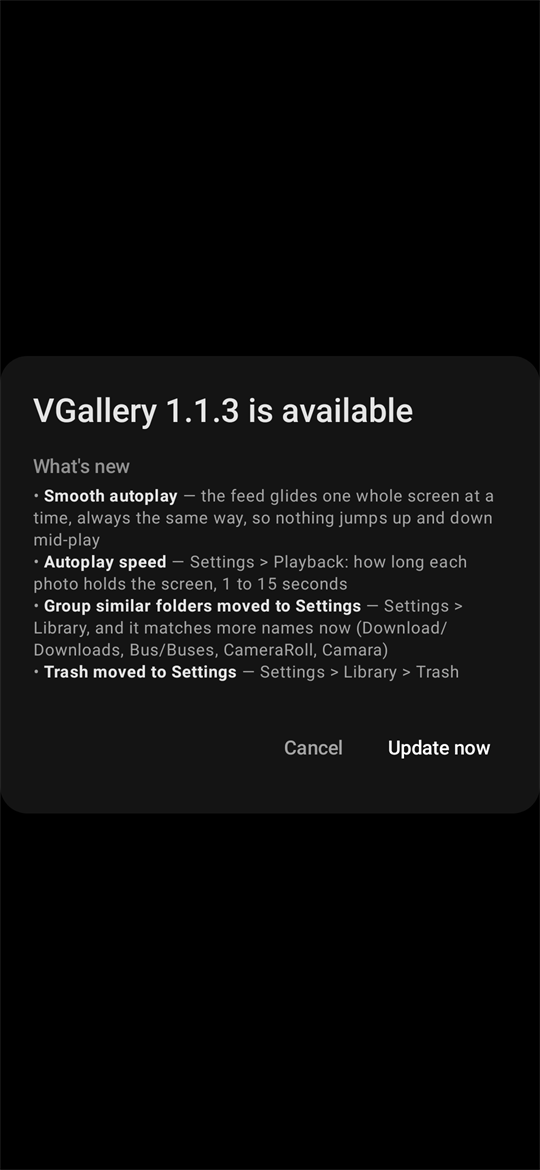
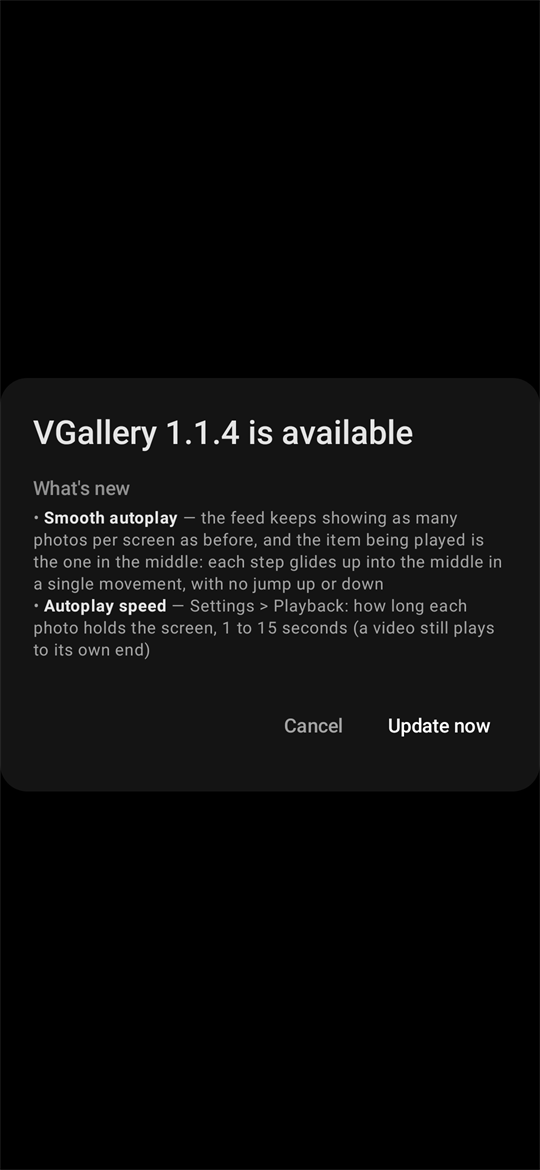
fix: keep autoplay in the feed's own layout, gliding one item to the middle at a time
1.1.3 drew every item as one full screen while autoplay ran, which threw away the
feed's own shape and made a run feel like a slideshow. The feed goes back to
showing as many photos per screen as fit, and the centring it needs is done
properly this time, in a single movement.

- DeviceGalleryScreen.kt: the page-mode drawing is gone (BoxWithConstraints,
  full-screen items, ContentScale.Fit). What travels is the middle: the item
  being played is brought there, and every step after that glides from one
  middle to the next. Where the arriving item is already laid out, its own
  distance from the middle is the exact answer; otherwise the step is half of
  each item plus the gap between them, corrected by however far the last one was
  left — so a finger that scrolled mid-run still lands the next item squarely.
- The old centre-the-playing-item helper had its scroll direction inverted, so
  its correction pushed the item the wrong way: that was the up-and-down the
  feed used to do. glideToCentre now uses the right sign, and only ever runs at
  the start of a run, to settle what a shape could not know.
- AutoplayPacing.kt: the glide is stretched a little for a long step, so a tall
  photo getting out of the way glides rather than flicks (250-1000 ms), and unit
  tested for it.
- Settings' About bullet and the README describe the feed as it is again.
- Version 1.1.4 (code 19).

Changed region(s): [[0.0593, 0.3385, 0.9185, 0.5846], [0.7111, 0.6154, 0.9185, 0.6462], [0.5037, 0.6154, 0.6519, 0.6462]]

diff --git a/app/src/main/java/com/vgallery/app/ui/gallery/DeviceGalleryScreen.kt b/app/src/main/java/com/vgallery/app/ui/gallery/DeviceGalleryScreen.kt
@@ -34,7 +34,6 @@ import androidx.compose.foundation.gestures.animateScrollBy
 import androidx.compose.foundation.gestures.detectTapGestures
 import androidx.compose.foundation.layout.Arrangement
 import androidx.compose.foundation.layout.Box
-import androidx.compose.foundation.layout.BoxWithConstraints
 import androidx.compose.foundation.layout.Column
 import androidx.compose.foundation.layout.PaddingValues
 import androidx.compose.foundation.layout.Row
@@ -132,7 +131,6 @@ import androidx.core.view.WindowInsetsCompat
 import androidx.core.view.WindowInsetsControllerCompat
 import androidx.compose.ui.text.font.FontWeight
 import androidx.compose.ui.text.style.TextOverflow
-import androidx.compose.ui.unit.Dp
 import androidx.compose.ui.unit.dp
 import androidx.compose.ui.unit.sp
 import androidx.hilt.navigation.compose.hiltViewModel
@@ -147,6 +145,7 @@ import androidx.media3.ui.AspectRatioFrameLayout
 import androidx.media3.ui.PlayerView
 import coil3.decode.BitmapFactoryDecoder
 import kotlin.math.abs
+import kotlin.math.roundToInt
 import coil3.request.ImageRequest
 import coil3.request.crossfade
 import coil3.size.Dimension
@@ -1192,6 +1191,25 @@ private fun knownAspectRatio(width: Int, height: Int): Float? {
 }
 
 /**
+ * How tall one feed item is on screen before the feed has measured it: the full width over the
+ * item's own aspect ratio, which is how every item in the feed is laid out. Zero when nothing is
+ * known about the shape — the measurement then has the last word.
+ */
+private fun feedItemHeightPx(
+    photo: DevicePhotoRow,
+    videoAspects: Map<Long, Float>,
+    widthPx: Int
+): Int {
+    val aspect = if (photo.isVideo) {
+        videoAspects[photo.id] ?: knownAspectRatio(photo.width, photo.height) ?: (16f / 9f)
+    } else {
+        knownAspectRatio(photo.width, photo.height)
+    }
+    if (aspect == null || aspect <= 0f || widthPx <= 0) return 0
+    return (widthPx / aspect).roundToInt()
+}
+
+/**
  * Global feed gesture, Google Drive PDF-viewer style.
  *
  * Runs on the Initial pass so it decides before the item's tap/play detector and before the
@@ -1229,9 +1247,6 @@ private fun Modifier.feedZoomGesture(state: FeedZoomState): Modifier = pointerIn
  * One video inside the continuous feed: full-width like every photo, as many
  * per screen as fit. A poster frame shows until the item is tapped; tapping binds
  * the shared player and plays, everything else stays paused.
- *
- * [pageHeight] is set while autoplay runs: the video then owns one whole screen too, and its
- * frames are fitted inside it rather than cropped to the item's shape.
  */
 @Composable
 private fun FeedVideoItem(
@@ -1240,7 +1255,6 @@ private fun FeedVideoItem(
     uiVisible: Boolean,
     exoPlayer: ExoPlayer,
     videoAspects: MutableMap<Long, Float>,
-    pageHeight: Dp?,
     onTogglePlay: () -> Unit,
     onDoubleTapChrome: () -> Unit
 ) {
@@ -1252,13 +1266,7 @@ private fun FeedVideoItem(
     Box(
         modifier = Modifier
             .fillMaxWidth()
-            .then(
-                if (pageHeight != null) {
-                    Modifier.height(pageHeight)
-                } else {
-                    Modifier.aspectRatio(aspect)
-                }
-            )
+            .aspectRatio(aspect)
             .background(Color.Black)
             .clipToBounds()
     ) {
@@ -1268,7 +1276,7 @@ private fun FeedVideoItem(
             uri = photo.uri,
             isVideo = true,
             contentDescription = photo.name,
-            contentScale = if (pageHeight != null) ContentScale.Fit else ContentScale.Crop,
+            contentScale = ContentScale.Crop,
             modifier = Modifier.fillMaxSize()
         )
         if (!isPlaying) {
@@ -1425,8 +1433,8 @@ private fun DevicePhotoViewer(
     val targetWidthPx = remember(configuration, density) {
         with(density) { (configuration.screenWidthDp.dp * 2).roundToPx() }.coerceAtLeast(1)
     }
-    // The sliver between feed items, shared by the list and by autoplay's step so a page and the
-    // distance it travels are the same measurement.
+    // The sliver between feed items, shared by the list and by autoplay's step, so the distance an
+    // item has to travel and the gap it travels over are the same measurement.
     val feedGap = 2.dp
     val feedGapPx = remember(density) { with(density) { feedGap.roundToPx() } }
     // Double-tap toggles all chrome (top bar + bottom title) for pure-image viewing.
@@ -1444,10 +1452,10 @@ private fun DevicePhotoViewer(
         mutableIntStateOf(startIndex.coerceIn(0, (photos.size - 1).coerceAtLeast(0)))
     }
     // Autoplay: plays the feed one item after another — videos to their end, stills and
-    // animations for as long as the user chose — walking the whole feed a screen at a time.
+    // animations for as long as the user chose — each item coming to the middle as it plays.
     var autoPlay by remember { mutableStateOf(false) }
-    // The page autoplay last settled on: a step from the item just before it is a glide, anything
-    // else is the start of a run and the page is taken without animating.
+    // The item autoplay last settled on: a step arriving from the item just before it glides over,
+    // anything else is the start of a run (or a tap) and the place is taken without animating.
     var autoplayAnchor by remember { mutableIntStateOf(-1) }
     // Delete / info UI state.
     var pendingDelete by remember { mutableStateOf<DevicePhotoRow?>(null) }
@@ -1469,7 +1477,7 @@ private fun DevicePhotoViewer(
         pendingDelete = photo
     }
 
-    /** Autoplay step: hand playback to the next item (the feed then glides its page in). */
+    /** Autoplay step: hand playback to the next item (the feed then brings it to the middle). */
     fun advanceAutoPlay() {
         if (!autoPlay) return
         val next = playingIndex + 1
@@ -1554,9 +1562,41 @@ private fun DevicePhotoViewer(
         // Still on the same item after the wait: nothing ended on its own, so move on.
         if (playingIndex == startedAt) advanceAutoPlay()
     }
-    // Autoplay's own movement. While a run lasts every item is drawn as one full screen, so the feed
-    // travels exactly one screen per step — and always the same way, down. A run that starts here
-    // takes its page without animating; every step after that glides, so nothing jumps back up.
+    /** How far one item has to move to own the middle of the screen, or 0 when it is already there. */
+    fun offCentrePx(index: Int): Int {
+        val info = listState.layoutInfo
+        val item = info.visibleItemsInfo.firstOrNull { it.index == index } ?: return 0
+        return item.offset - (info.viewportSize.height - item.size) / 2
+    }
+
+    /** An item's height: what the feed has already measured, or what its shape says it will take. */
+    fun itemHeightPx(index: Int, widthPx: Int): Int {
+        val measured = listState.layoutInfo.visibleItemsInfo
+            .firstOrNull { it.index == index }
+            ?.size ?: 0
+        if (measured > 0) return measured
+        val photo = photos.getOrNull(index) ?: return 0
+        return feedItemHeightPx(photo, videoAspects, widthPx)
+    }
+
+    /**
+     * The last pixel or two of a centring. An item's shape is right to within a pixel, but only a
+     * measurement is exact — and this is the one place a run is allowed to settle, at its start.
+     */
+    suspend fun glideToCentre(index: Int, durationMs: Int) {
+        val delta = offCentrePx(index)
+        if (abs(delta) > 1) {
+            listState.animateScrollBy(
+                delta.toFloat(),
+                tween(durationMillis = durationMs, easing = LinearOutSlowInEasing)
+            )
+        }
+    }
+
+    // Autoplay's own movement. The feed goes on showing as many items per screen as fit; what
+    // travels is the middle, and it only ever travels down: the item being played is brought to the
+    // middle, and every step after that glides from one middle to the next in a single movement.
+    // Nothing jumps — not to the item first and not at the end of the glide.
     LaunchedEffect(autoPlay, playingIndex) {
         if (!autoPlay || playingIndex < 0) {
             autoplayAnchor = -1
@@ -1564,24 +1604,36 @@ private fun DevicePhotoViewer(
         }
         val from = autoplayAnchor
         autoplayAnchor = playingIndex
+        val info = listState.layoutInfo
+        val viewport = info.viewportSize
+        if (viewport.height <= 0) return@LaunchedEffect
         if (from != playingIndex - 1) {
-            listState.scrollToItem(playingIndex)
+            // A run starting, or a jump the user asked for with a tap: take the place without
+            // animating, so the glide that follows leaves from somewhere known.
+            val height = itemHeightPx(playingIndex, viewport.width)
+            val destination =
+                if (height in 1 until viewport.height) -((viewport.height - height) / 2) else 0
+            listState.scrollToItem(playingIndex, destination)
+            glideToCentre(playingIndex, autoplayGlideMs(autoplaySeconds).toInt())
             return@LaunchedEffect
         }
-        val info = listState.layoutInfo
-        // The page taking over, if a finger has already brought it into view; otherwise one whole
-        // screen on from wherever the page just left sits. Autoplay leaves the feed free to be
-        // scrolled by hand, so that place is measured instead of assumed.
-        val delta = info.visibleItemsInfo.firstOrNull { it.index == playingIndex }?.let { it.offset }
-            ?: (
-                (info.visibleItemsInfo.firstOrNull { it.index == from }?.offset ?: 0) +
-                    info.viewportSize.height + feedGapPx
-                )
+        // The item that should own the middle is on screen more often than not, and then its own
+        // distance from there is the exact answer. Otherwise the step is half of the item that is
+        // leaving plus half of the one arriving, plus the sliver between them — measured from
+        // wherever the last one was left, since a finger may have scrolled during the run.
+        val target = info.visibleItemsInfo.firstOrNull { it.index == playingIndex }
+        val delta = if (target != null) {
+            offCentrePx(playingIndex)
+        } else {
+            offCentrePx(from) +
+                (itemHeightPx(from, viewport.width) + itemHeightPx(playingIndex, viewport.width)) / 2 +
+                feedGapPx
+        }
         if (delta > 0) {
             listState.animateScrollBy(
                 delta.toFloat(),
                 tween(
-                    durationMillis = autoplayGlideMs(autoplaySeconds).toInt(),
+                    durationMillis = autoplayGlideMs(autoplaySeconds, delta).toInt(),
                     easing = LinearOutSlowInEasing
                 )
             )
@@ -1626,9 +1678,7 @@ private fun DevicePhotoViewer(
             )
         }
     ) { padding ->
-        // BoxWithConstraints for one number: the height of a page. Autoplay draws every item as one
-        // full screen, and this is that screen — the list's own viewport, bar and all.
-        BoxWithConstraints(
+        Box(
             modifier = Modifier
                 .fillMaxSize()
                 .padding(padding)
@@ -1639,8 +1689,6 @@ private fun DevicePhotoViewer(
                     detectTapGestures(onDoubleTap = { toggleChrome.value() })
                 }
         ) {
-            // Null while the feed scrolls freely; a page height while autoplay runs.
-            val pageHeight = if (autoPlay) maxHeight else null
             LazyColumn(
                 state = listState,
                 // One global pinch-zoom drives the whole feed: the scaled layer below zooms every
@@ -1673,7 +1721,6 @@ private fun DevicePhotoViewer(
                             uiVisible = uiVisible,
                             exoPlayer = exoPlayer,
                             videoAspects = videoAspects,
-                            pageHeight = pageHeight,
                             onTogglePlay = { togglePlay(index) },
                             onDoubleTapChrome = { toggleChrome.value() }
                         )
@@ -1746,10 +1793,8 @@ private fun DevicePhotoViewer(
                         directDrawable != null
                     // Tap a photo to play it (GIF/WebP/video). Chrome toggles
                     // with double-tap (also here: child taps never reach the feed).
-                    // On an autoplay page the item fills the screen and the photo is fitted inside
-                    // it; the feed keeps its own shape the rest of the time.
                     val tapModifier = Modifier
-                        .then(if (pageHeight != null) Modifier.fillMaxSize() else Modifier.fillMaxWidth())
+                        .fillMaxWidth()
                         .background(Color.DarkGray)
                         .pointerInput(photo.id) {
                             detectTapGestures(
@@ -1760,9 +1805,8 @@ private fun DevicePhotoViewer(
                     Box(
                         modifier = Modifier
                             .fillMaxWidth()
-                            .then(if (pageHeight != null) Modifier.height(pageHeight) else Modifier)
                             .then(
-                                if (pageHeight == null && !contentReady && placeholderAspect != null) {
+                                if (!contentReady && placeholderAspect != null) {
                                     Modifier.aspectRatio(placeholderAspect)
                                 } else {
                                     Modifier
@@ -1771,7 +1815,7 @@ private fun DevicePhotoViewer(
                             .clipToBounds()
                     ) {
                     // The image layer; the feed zooms it along with every other item.
-                    Box(modifier = if (pageHeight != null) Modifier.fillMaxSize() else Modifier.fillMaxWidth()) {
+                    Box(modifier = Modifier.fillMaxWidth()) {
                     if (directDrawable != null) {
                         // Animated GIF/WebP in a platform ImageView: animation
                         // callbacks are native, so playback just works.
@@ -1793,11 +1837,7 @@ private fun DevicePhotoViewer(
                         Image(
                             painter = painter,
                             contentDescription = photo.name,
-                            contentScale = if (pageHeight != null) {
-                                ContentScale.Fit
-                            } else {
-                                ContentScale.FillWidth
-                            },
+                            contentScale = ContentScale.FillWidth,
                             modifier = tapModifier
                         )
                     }

diff --git a/app/src/main/java/com/vgallery/app/data/gallery/AutoplayPacing.kt b/app/src/main/java/com/vgallery/app/data/gallery/AutoplayPacing.kt
@@ -27,9 +27,26 @@ fun autoplayDwellMs(isVideo: Boolean, durationMs: Long, seconds: Int): Long =
         autoplaySeconds(seconds) * 1_000L
     }
 
+/** Glide length is kept inside these bounds, however short or long the step turns out to be. */
+private const val AUTOPLAY_GLIDE_MIN_MS = 250L
+private const val AUTOPLAY_GLIDE_MAX_MS = 1_000L
+
+/** Slower autoplay earns a longer glide: this much per second of the setting. */
+private const val AUTOPLAY_GLIDE_PER_SECOND_MS = 60L
+
+/** And a step that covers more screen earns a little longer still: a millisecond per these pixels. */
+private const val AUTOPLAY_GLIDE_STRETCH_PX = 6L
+private const val AUTOPLAY_GLIDE_STRETCH_MAX_MS = 400L
+
 /**
- * How long the glide to the next item takes. A slower autoplay earns a longer, calmer move, so the
- * feed never looks like it is racing the picture it has just left.
+ * How long the glide from one item to the next takes. A slower autoplay earns a longer, calmer move
+ * so the feed never looks like it is racing the picture it has just left, and a step that covers most
+ * of the screen — a tall photo getting out of the way — is given a little longer still so it glides
+ * rather than flicks. [distancePx] is that step, in pixels.
  */
-fun autoplayGlideMs(seconds: Int): Long =
-    (autoplaySeconds(seconds) * 60L).coerceIn(250L, 600L)
+fun autoplayGlideMs(seconds: Int, distancePx: Int = 0): Long {
+    val pace = autoplaySeconds(seconds) * AUTOPLAY_GLIDE_PER_SECOND_MS
+    val stretch = (distancePx / AUTOPLAY_GLIDE_STRETCH_PX)
+        .coerceIn(0L, AUTOPLAY_GLIDE_STRETCH_MAX_MS)
+    return (pace + stretch).coerceIn(AUTOPLAY_GLIDE_MIN_MS, AUTOPLAY_GLIDE_MAX_MS)
+}

diff --git a/app/src/test/kotlin/com/vgallery/app/GalleryScreenshotsTest.kt b/app/src/test/kotlin/com/vgallery/app/GalleryScreenshotsTest.kt
@@ -390,15 +390,13 @@ class GalleryScreenshotsTest {
     )
 
     private val sampleRelease = AppRelease(
-        versionName = "1.1.3",
-        tag = "v1.1.3",
+        versionName = "1.1.4",
+        tag = "v1.1.4",
         notes = """
-            - **Smooth autoplay** - the feed glides one whole screen at a time, always the same way, so nothing jumps up and down mid-play
-            - **Autoplay speed** - Settings > Playback: how long each photo holds the screen, 1 to 15 seconds
-            - **Group similar folders moved to Settings** - Settings > Library, and it matches more names now (Download/Downloads, Bus/Buses, CameraRoll, Camara)
-            - **Trash moved to Settings** - Settings > Library > Trash
+            - **Smooth autoplay** - the feed keeps showing as many photos per screen as before, and the item being played is the one in the middle: each step glides up into the middle in a single movement, with no jump up or down
+            - **Autoplay speed** - Settings > Playback: how long each photo holds the screen, 1 to 15 seconds (a video still plays to its own end)
         """.trimIndent(),
-        apkUrl = "https://github.com/realmjunaid/vgallery/releases/download/v1.1.3/vgallery_v1.1.3-release.apk",
+        apkUrl = "https://github.com/realmjunaid/vgallery/releases/download/v1.1.4/vgallery_v1.1.4-release.apk",
[1 lines of base64/hex data omitted]
         source = "github"
     )

diff --git a/app/src/test/kotlin/com/vgallery/app/AutoplayPacingTest.kt b/app/src/test/kotlin/com/vgallery/app/AutoplayPacingTest.kt
@@ -49,7 +49,16 @@ class AutoplayPacingTest {
     fun theGlideIsShortButNeverSnappy() {
         // A slow autoplay glides more calmly than a fast one, inside a fixed window.
         assertTrue(autoplayGlideMs(1) in 200L..400L)
-        assertTrue(autoplayGlideMs(15) in 400L..700L)
+        assertTrue(autoplayGlideMs(15) in 600L..1_100L)
         assertTrue(autoplayGlideMs(15) > autoplayGlideMs(1))
+    }
+
+    @Test
+    fun aLongerStepIsGivenALittleLonger() {
+        // A tall photo getting out of the way covers most of the screen: better a moment longer than
+        // a flick nobody can follow. It stays inside the window, and a step of nothing changes nothing.
+        assertEquals(autoplayGlideMs(5), autoplayGlideMs(5, distancePx = 0))
+        assertTrue(autoplayGlideMs(5, distancePx = 2_400) > autoplayGlideMs(5))
+        assertTrue(autoplayGlideMs(15, distancePx = 10_000) <= 1_000L)
     }
 }

diff --git a/app/src/main/java/com/vgallery/app/ui/settings/SettingsScreen.kt b/app/src/main/java/com/vgallery/app/ui/settings/SettingsScreen.kt
@@ -556,8 +556,8 @@ private fun AboutAppPage() {
             icon = Icons.Filled.PlayArrow,
             title = "Continuous viewer",
             body = "Scroll every photo and video in one feed, pinch to zoom 1x-10x, and tap Autoplay " +
-                "to watch the whole feed: each item glides in a screen at a time, and how long a " +
-                "photo holds is yours to set in Settings."
+                "to watch the whole feed: each item comes to the middle and the feed glides on to " +
+                "the next, and how long a photo holds is yours to set in Settings."
         )
         HorizontalDivider(color = SurfaceElevated, thickness = 0.5.dp)
         AboutBullet(

diff --git a/README.md b/README.md
@@ -4,7 +4,7 @@
 
 <p>
   <a href="https://github.com/realmjunaid/vgallery/releases/latest">
-    <img src="https://img.shields.io/badge/Download-VGallery_v1.1.3.apk-7C3AED?style=for-the-badge&logo=android&logoColor=white" alt="Download APK">
+    <img src="https://img.shields.io/badge/Download-VGallery_v1.1.4.apk-7C3AED?style=for-the-badge&logo=android&logoColor=white" alt="Download APK">
   </a>
 </p>
 
@@ -58,7 +58,7 @@ demo images — a device-less test has no camera roll.
 - **Continuous full view** — tap any photo to enter a Drive-style vertical feed: every photo edge-to-edge, full original resolution, zero compression. Videos show their poster frame instead of a black box, and start playing only when you tap them. While a video plays, its remaining time counts down in the corner, so how much is left is readable at any moment.
 - **Smart counter** — a tiny `23 / 100` indicator follows you as you scroll.
 - **Tap to play** — only the item you tap plays (video, GIF or animated WebP); everything else stays paused to save battery.
-- **Autoplay** ▶ — the play icon in the full-view feed's top bar plays the whole feed hands-free. Every item is shown as one full screen and the feed glides up exactly one screen at a time, so nothing ever jumps back: videos run to their own end, and photos hold for the length you choose in **Settings › Playback** (1–15 seconds), until you tap the button again.
+- **Autoplay** ▶ — the play icon in the full-view feed's top bar plays the whole feed hands-free. The feed keeps showing as many photos per screen as always, and the item being played is the one that comes to the middle: when its turn is over, the next glides smoothly up into the middle too. Videos run to their own end, photos hold for the length you choose in **Settings › Playback** (1–15 seconds), until you tap the button again.
 - **Pinch-to-zoom** — one global pinch scales the whole vertical feed together, photos and videos alike, from 1x up to 10x and anchored under your fingers. While zoomed, drag sideways to pan (clamped so no blank space shows) and drag or fling up and down to keep scrolling through every item — a diagonal drag does both at once. Pinch back to fit to scroll normally again.
 - **Share, delete, search** — system share sheet, folder search from home (it finds folders, not loose files — home is where you pick a folder), long-press multi-select in folders and on home with batch actions.
 - **Built-in updates** ⬆ — the app checks GitHub for a newer release (at most every six hours, and only if you leave it on) and offers *Update now* / *Cancel*. Update now downloads the APK, verifies its checksum and signature, and opens Android's installer without a browser.
@@ -73,7 +73,7 @@ demo images — a device-less test has no camera roll.
 ## 📥 Download & Install
 
 1. Go to the [**latest release**](https://github.com/realmjunaid/vgallery/releases/latest), mirrored on [**GitLab**](https://gitlab.com/realmjunaid/vgallery/-/releases) with the same APK and source archives.
-2. Download **`vgallery_v1.1.3-release.apk`** (under *Assets*).
+2. Download **`vgallery_v1.1.4-release.apk`** (under *Assets*).
 3. Open the file on your phone and tap **Install** (allow *Install unknown apps* if asked).
 4. Open **VGallery**, allow photo access — done, your gallery is ready.
 
